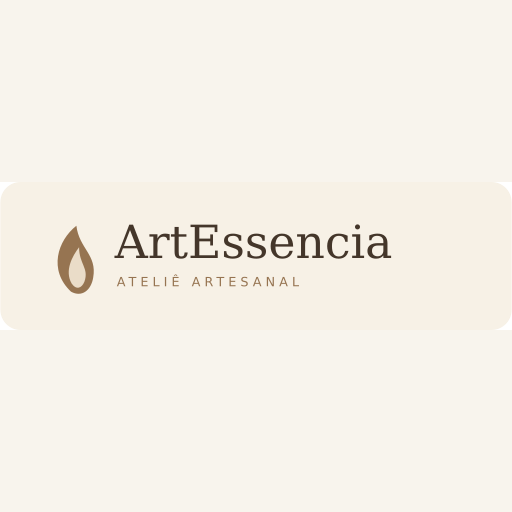
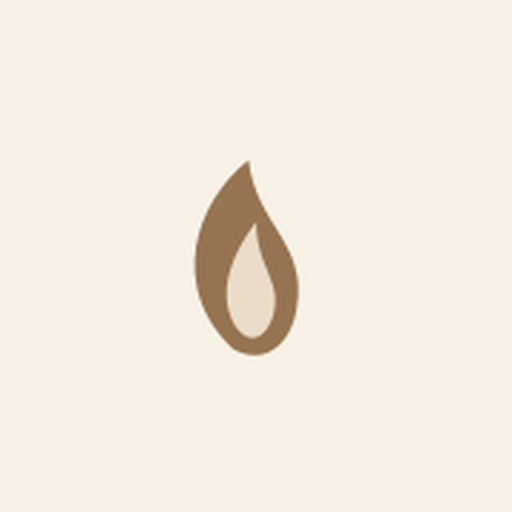
Add files via upload

diff --git a/index.html b/index.html
@@ -2840,8 +2840,81 @@ th{background:#493324;color:#f8efe4;font-size:10px;letter-spacing:.04em}td{borde
 }
 </style>
 
+
+<style id="artessencia-v1778-branding">
+/* V1.7.78 — identidade visual coerente: sidebar, ícone e splash */
+.sidebar .brand{
+  margin:0 3px 18px!important;
+  padding:0 4px 15px!important;
+  text-align:center!important;
+  border-bottom:1px solid rgba(255,255,255,.09)!important;
+}
+.sidebar .brand img{
+  display:block!important;
+  width:100%!important;
+  max-width:190px!important;
+  height:auto!important;
+  aspect-ratio:10/3!important;
+  object-fit:contain!important;
+  object-position:center!important;
+  margin:0 auto!important;
+  padding:0!important;
+  border-radius:11px!important;
+  background:#f7f1e6!important;
+  box-shadow:0 6px 18px rgba(0,0,0,.16)!important;
+  filter:none!important;
+}
+.sidebar .brand small{
+  display:block!important;
+  margin:9px 0 0!important;
+  text-align:center!important;
+  color:#dccab3!important;
+  font-size:8.5px!important;
+  line-height:1.35!important;
+  letter-spacing:.19em!important;
+  font-weight:800!important;
+}
+#brandSplashV1778{
+  position:fixed;
+  inset:0;
+  z-index:9999;
+  display:grid;
+  place-items:center;
+  background:#f7f1e6;
+  opacity:1;
+  visibility:visible;
+  transition:opacity .28s ease,visibility .28s ease;
+}
+#brandSplashV1778.is-hidden{opacity:0;visibility:hidden;pointer-events:none}
+#brandSplashV1778 .brand-splash-card{
+  width:min(560px,78vw);
+  text-align:center;
+}
+#brandSplashV1778 img{
+  display:block;
+  width:100%;
+  height:auto;
+  max-height:190px;
+  object-fit:contain;
+  margin:0 auto;
+}
+#brandSplashV1778 .brand-splash-line{
+  width:min(340px,62%);
+  height:1px;
+  margin:18px auto 0;
+  background:rgba(90,36,11,.18);
+}
+@media(max-width:650px){
+  #brandSplashV1778 .brand-splash-card{width:min(420px,84vw)}
+  #brandSplashV1778 img{max-height:150px}
+}
+@media(prefers-reduced-motion:reduce){
+  #brandSplashV1778{transition:none}
+}
+</style>
 </head>
 <body>
+<div id="brandSplashV1778" aria-hidden="true"><div class="brand-splash-card"><img src="brand-artessencia.png" alt=""><div class="brand-splash-line"></div></div></div>
 <div id="lockScreen" class="lock">
   <div class="lockbox">
     <img src="icon-192.png" alt="ArtEssencia">
@@ -4904,7 +4977,7 @@ document.addEventListener('input',e=>{
 });
 
 
-const APP_VERSION='1.7.77';
+const APP_VERSION='1.7.78';
 const OPERATING_MODE_TEST_V1420='test';
 const OPERATING_MODE_BUSINESS_V1420='business';
 function operatingModeV1420(){
@@ -16726,6 +16799,16 @@ function renderEmailModuleV177(){const tabs=document.getElementById('emailTabsV1
 function openEmailMessageV177(id,refresh=false){const x=emailRowsV177.find(r=>String(r.id)===String(id));if(!x)return toast('Mensagem não encontrada');window.__emailOpenMessageIdV1711=String(id);window.__emailOpenThreadIndexV1711=null;emailAssocMessageIdsV1711=[x.id];if(!refresh)emailAssocEditingV1711=false;const d=document.getElementById('emailDetailDialogV177'),title=document.getElementById('emailDetailTitleV177'),sub=document.getElementById('emailDetailSubtitleV177'),body=document.getElementById('emailDetailBodyV177');if(!d||!body)return;if(title)title.textContent=x.subject||'(sem assunto)';if(sub)sub.textContent=emailIsTrashedV1715(x)?'Mensagem na lixeira':x.direction==='inbound'?'Mensagem recebida':'Mensagem enviada';const when=emailWhenV179(x),trashed=emailIsTrashedV1715(x),reply=!trashed&&x.direction==='inbound'?`<div class="email178-reply"><div class="field"><label>Responder a ${escapeHtml(x.from_email||'')}</label><textarea id="emailReplyTextV178" maxlength="5000" placeholder="Escreve a resposta…"></textarea></div><div class="email178-actions"><button class="btn primary" id="emailReplyBtnV178" type="button" onclick="sendEmailReplyV178('${String(x.id).replace(/'/g,"\\'")}')">Responder</button></div></div>`:'',actions=`<div class="email1715-detail-actions">${!trashed&&x.direction==='inbound'?'<button class="btn" type="button" onclick="markCurrentEmailUnreadV1715()">Marcar como não lido</button>':''}${trashed?'<button class="btn primary" type="button" onclick="restoreCurrentEmailV1715()">Restaurar</button>':'<button class="btn danger" type="button" onclick="trashCurrentEmailV1715()">Eliminar</button>'}</div>`;body.innerHTML=`<div class="email177-detail-grid"><b>De</b><span>${escapeHtml(x.from_email||'—')}</span><b>Para</b><span>${escapeHtml(x.to_email||'—')}</span><b>Data</b><span>${escapeHtml(emailDateV177(when))}</span><b>Estado</b><span>${escapeHtml(emailDisplayStatusV178(x))}</span><b>Associação</b><span class="email178-association">${escapeHtml(emailAssociationLabelV1711([x]))}</span></div>${trashed?'':renderEmailAssocEditorV1711()}<div class="email177-message">${escapeHtml(x.body_text||htmlToTextV177(x.body_html||'')||'(mensagem sem conteúdo de texto)')}</div>${x.error?`<div class="email177-status" style="margin-top:10px">Erro: ${escapeHtml(x.error)}</div>`:''}${reply}${actions}`;if(!d.open)d.showModal();if(x.direction==='inbound'&&!trashed&&emailIsUnreadV1715(x))setEmailReadV1715(x,true,true)}
 function openEmailThreadV179(index,refresh=false){emailThreadsV179=buildEmailThreadsV179(emailActiveRowsV1715());const t=emailThreadsV179[Number(index)];if(!t)return toast('Conversa não encontrada');window.__emailOpenThreadIndexV1711=Number(index);window.__emailOpenMessageIdV1711='';emailAssocMessageIdsV1711=t.messages.map(x=>x.id).filter(Boolean);if(!refresh)emailAssocEditingV1711=false;const d=document.getElementById('emailDetailDialogV177'),title=document.getElementById('emailDetailTitleV177'),sub=document.getElementById('emailDetailSubtitleV177'),body=document.getElementById('emailDetailBodyV177');if(!d||!body)return;if(title)title.textContent=t.subject;if(sub)sub.textContent=`Conversa · ${t.messages.length} mensagem(ns)`;const messages=t.messages.map(x=>`<div class="email179-msg ${x.direction==='inbound'?'inbound':'outbound'}"><div class="email179-msg-head"><b>${x.direction==='inbound'?escapeHtml(x.from_email||'Cliente'):'ArtEssencia'}</b><time>${escapeHtml(emailDateV177(emailWhenV179(x)))}</time></div><div class="email179-msg-body">${escapeHtml(x.body_text||htmlToTextV177(x.body_html||'')||'(mensagem sem conteúdo de texto)')}</div>${x.status==='failed'?'<div class="email177-pill failed" style="display:inline-block;margin-top:7px">Falhou</div>':''}</div>`).join('');body.innerHTML=`<div class="email179-thread-assoc"><b>Contacto:</b> ${escapeHtml(t.contact||'—')} · <b>Associação:</b> ${escapeHtml(emailAssociationLabelV1711(t.messages))}</div>${renderEmailAssocEditorV1711()}<div class="email179-thread-view">${messages}</div><div class="email179-compose"><div class="field"><label>Responder nesta conversa</label><textarea id="emailThreadReplyV179" maxlength="5000" placeholder="Escreve a resposta…"></textarea></div><div class="email178-actions"><button class="btn primary" id="emailThreadReplyBtnV179" type="button" onclick="sendEmailThreadReplyV179(${Number(index)})">Responder</button></div></div><div class="email1715-detail-actions"><button class="btn" type="button" onclick="markCurrentEmailUnreadV1715()">Marcar como não lida</button><button class="btn danger" type="button" onclick="trashCurrentEmailV1715()">Eliminar conversa</button></div>`;if(!d.open)d.showModal();const unread=t.messages.filter(emailIsUnreadV1715);if(unread.length)Promise.all(unread.map(m=>setEmailReadV1715(m,true,false))).then(()=>renderEmailModuleV177())}
 
+</script>
+
+<script id="artessencia-v1778-brand-splash">
+(function(){
+  const splash=document.getElementById('brandSplashV1778');
+  if(!splash)return;
+  const hide=()=>{setTimeout(()=>{splash.classList.add('is-hidden');setTimeout(()=>splash.remove(),320)},420)};
+  if(document.readyState==='complete')hide();
+  else window.addEventListener('load',hide,{once:true});
+})();
 </script>
 </body></html>
 

diff --git a/sw.js b/sw.js
@@ -1,4 +1,4 @@
-const CACHE='artessencia-v1-7-77';
+const CACHE='artessencia-v1-7-78';
 const CORE=['./','./index.html','./manifest.webmanifest','./brand-artessencia.png','./icon-192.png','./icon-512.png'];
 self.addEventListener('install',event=>{event.waitUntil(caches.open(CACHE).then(c=>c.addAll(CORE)).catch(()=>{}));self.skipWaiting()});
 self.addEventListener('activate',event=>{event.waitUntil(caches.keys().then(keys=>Promise.all(keys.filter(k=>k!==CACHE).map(k=>caches.delete(k)))).then(()=>self.clients.claim()))});
